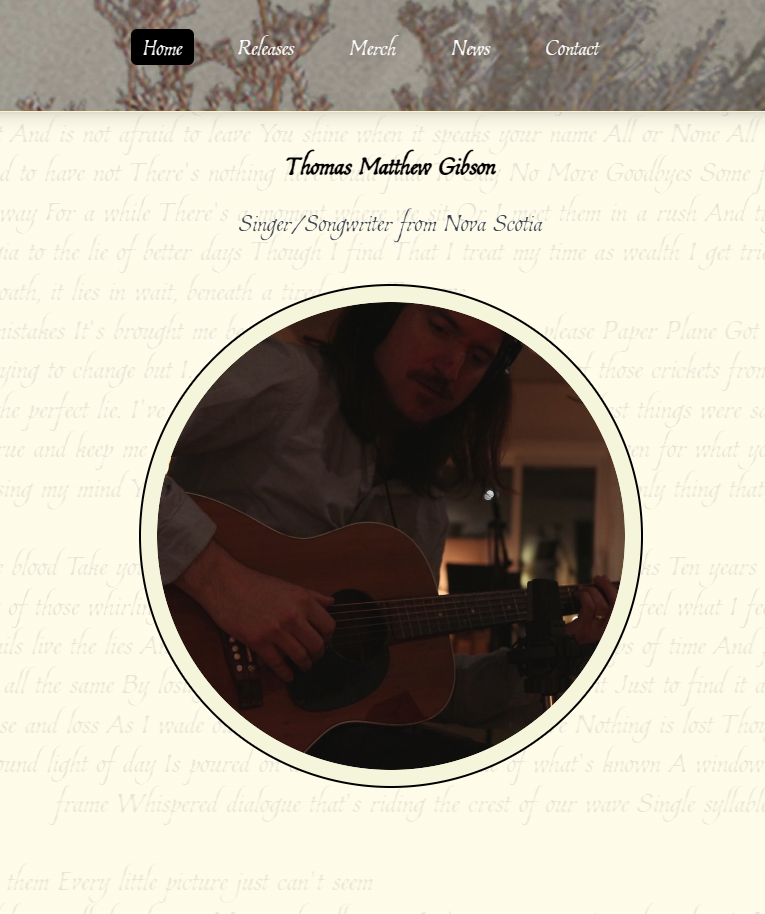
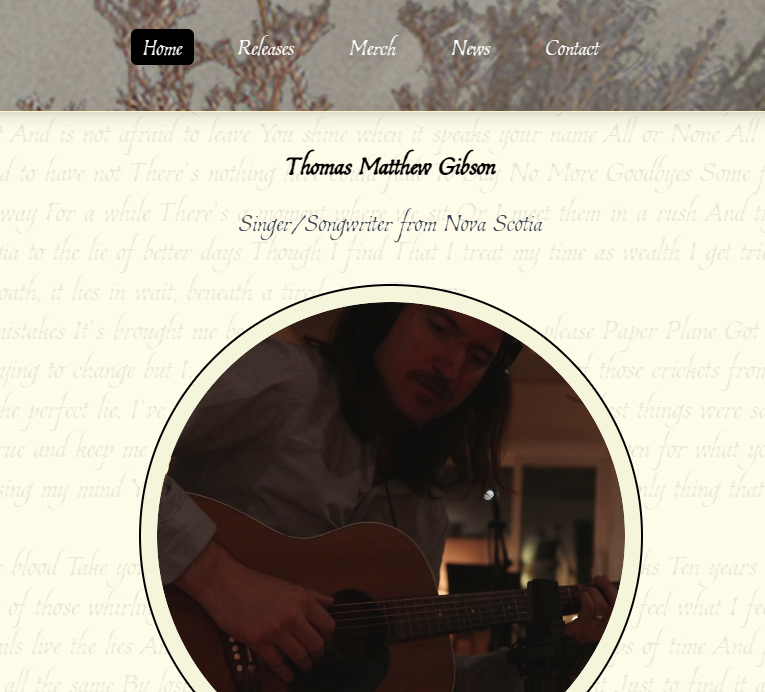
Update portfolio header identity and soften contact styling.
Refresh branding to Thomas Matthew Gibson with a lighter header treatment, remove the about headshot, and update footer year/name while applying a softer contact section background.

Made-with: Cursor

diff --git a/index.html b/index.html
@@ -3,7 +3,7 @@
 <head>
     <meta charset="UTF-8">
     <meta name="viewport" content="width=device-width, initial-scale=1.0">
-    <title>Thomas Gibson - Full Stack Developer</title>
+    <title>Thomas Matthew Gibson - Full Stack Developer</title>
     <link rel="preconnect" href="https://fonts.googleapis.com">
     <link rel="preconnect" href="https://fonts.gstatic.com" crossorigin>
     <link href="https://fonts.googleapis.com/css2?family=DM+Serif+Text:ital@0;1&display=swap" rel="stylesheet">
@@ -18,7 +18,10 @@
     <nav class="navbar">
         <div class="nav-container">
             <div class="nav-logo">
-                <a href="#about">Thomas Gibson</a>
+                <a href="#about">
+                    <span class="nav-name">Thomas Matthew Gibson</span>
+                    <span class="nav-role">Full Stack Developer</span>
+                </a>
             </div>
             <div class="nav-menu" id="nav-menu">
                 <a href="#about" class="nav-link">About</a>
@@ -46,9 +49,6 @@
         <div class="container">
             <div class="about-content">
                 <div class="about-text">
-                    <div class="about-image">
-                        <img src="img/TG.jfif" alt="Thomas Gibson" class="profile-photo">
-                    </div>
                     <p>
                         I'm a full stack developer based in Toronto Ontario specializing in Web Development. 
                         My skillset covers the full gamut of building a professional app or website from the ground up. 
@@ -326,7 +326,7 @@
     <footer class="footer">
         <div class="container">
             <div class="footer-content">
-                <p>&copy; 2024 Thomas Gibson. All rights reserved.</p>
+                <p>&copy; 2026 Thomas Matthew Gibson. All rights reserved.</p>
                 <div class="footer-links">
                     <a href="#about">About</a>
                     <a href="#projects">Projects</a>

diff --git a/css/style.css b/css/style.css
@@ -132,9 +132,24 @@ p {
 
 .nav-logo a {
     font-size: 1.5rem;
-    font-weight: 700;
+    font-weight: 300;
     color: #ffffff;
     text-decoration: none;
+    display: flex;
+    flex-direction: column;
+    line-height: 1.2;
+}
+
+.nav-logo .nav-name {
+    font-size: 1.5rem;
+    font-weight: 300;
+}
+
+.nav-logo .nav-role {
+    font-size: 0.85rem;
+    font-weight: 400;
+    color: rgba(255, 255, 255, 0.8);
+    margin-top: 0.15rem;
 }
 
 .nav-logo a:hover {
@@ -783,7 +798,7 @@ section {
     display: flex;
     flex-wrap: wrap;
     gap: 0;
-    background: #ffffff;
+    background: #e5e7eb;
     padding: 2rem;
     border-radius: 1rem;
     box-shadow: var(--shadow-md);
